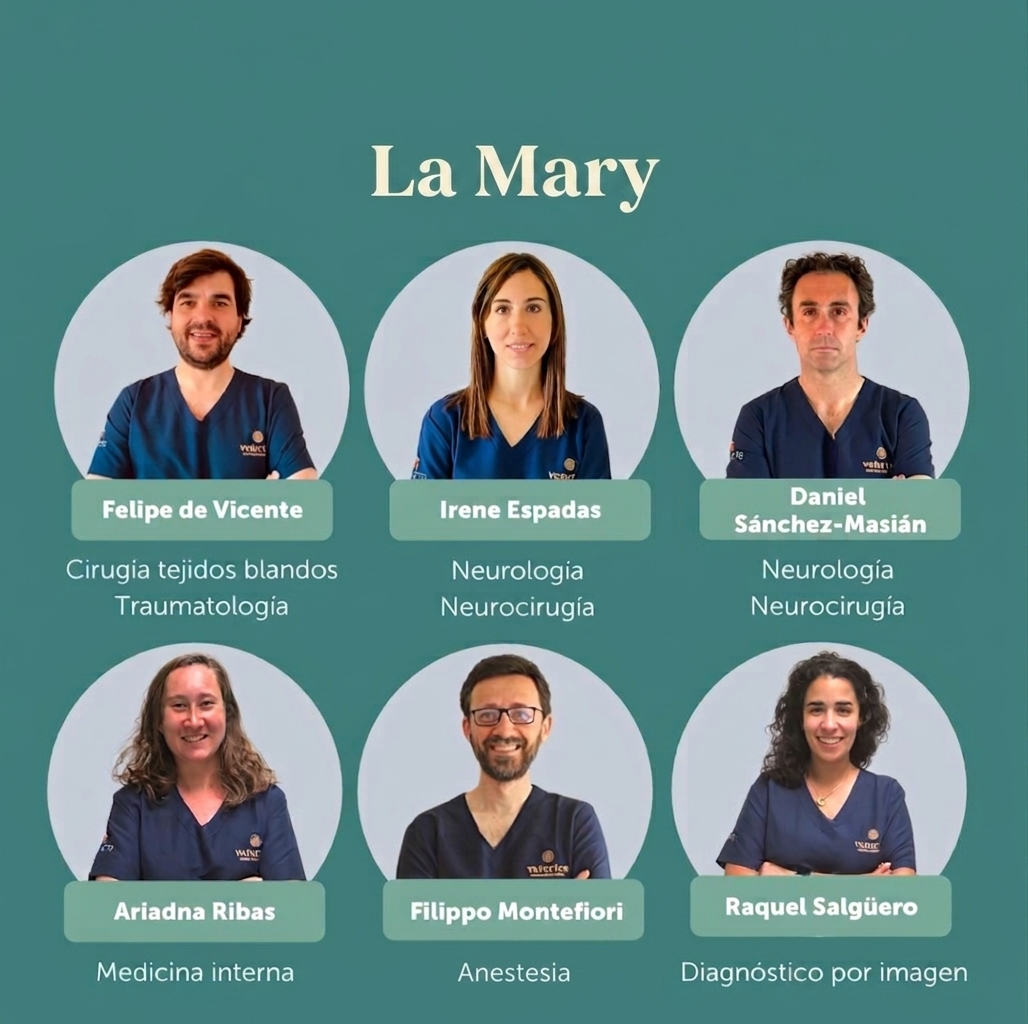
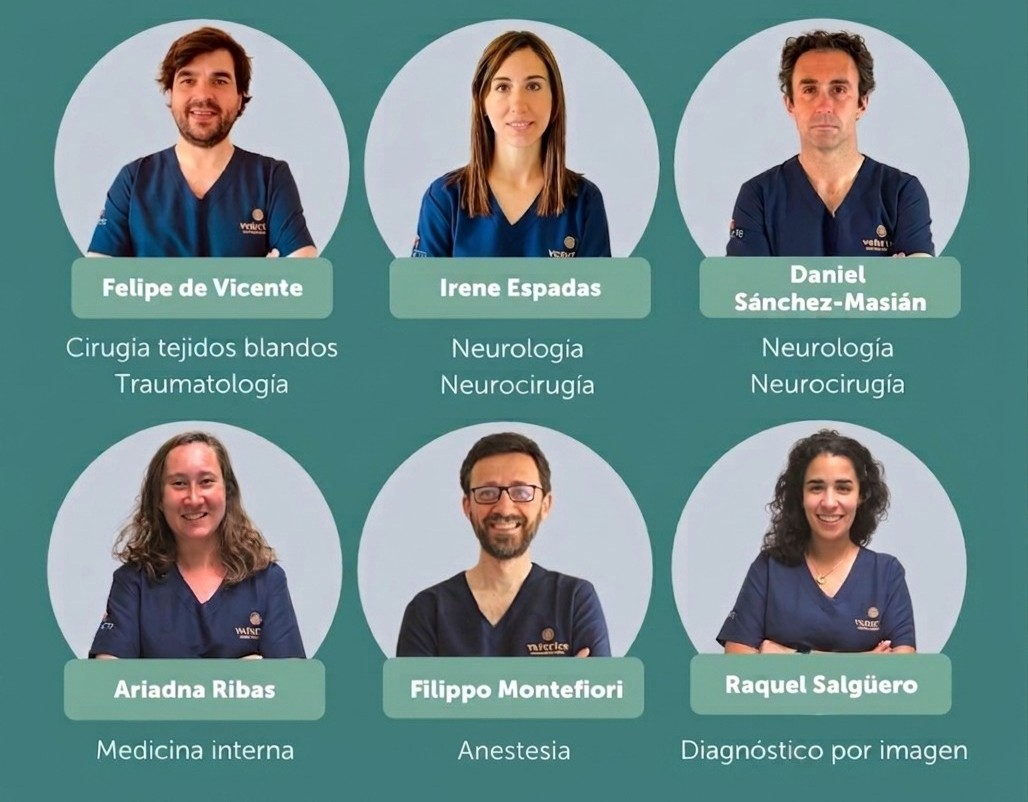
agregue imagen y modifique intitucional

diff --git a/institucional.html b/institucional.html
@@ -11,7 +11,7 @@
 <body>
      <header>
         <div class="logo">
-            <img src="assets/img/icono.png" height="200" width="200">
+            <img src="assets/img/icono1.png" height="200" width="200">
         </div>
         <div class="header-text"> 
             <h1>Veterinaria La Mary</h1>
@@ -33,41 +33,43 @@
         </nav>   
      </header>
 
-    <main> <!-- Contenido principal de la página -->
+    <main> 
         <br><br>
         <section>
-            <h1>Quienes somos</h1><br>
-        <div class="im">
-            <img src="assets/img/1.jpg" alt="" width="600" height="400">
-        </div>
-            <p>En Veterinaria La Mary, somos un centro de salud animal comprometido con brindar una atención médica integral y de alta calidad para las mascotas de nuestra comunidad. Con años de trayectoria, combinamos experiencia científica, tecnología adecuada y, por sobre todo, un profundo amor por los animales, garantizando que cada paciente reciba un trato digno, seguro y personalizado en cada etapa de su vida.</p>
+            <h2>Quienes somos</h2>
+         <p>En Veterinaria La Mary, somos un centro de salud animal comprometido con brindar una atención médica integral y de alta calidad para las mascotas de nuestra comunidad. Con años de trayectoria, combinamos experiencia científica, tecnología adecuada y, por sobre todo, un profundo amor por los animales, garantizando que cada paciente reciba un trato digno, seguro y personalizado en cada etapa de su vida.</p>
+
+        <img src="assets/img/equipo.jpg" alt="" width="600" height="500">
+    
         </section>
         <br><br>
         <section>
-            <h1>Nuestra Mision</h1><br>
-        <div class="im">
-            <img src="assets/img/2.jpg" alt="" width="600" height="400">
-        </div>
+            <h3>Consultorios Equipados</h3>
+            <p>Espacios cómodos y diseñados para reducir el estrés de tus mascotas durante la consulta.</p> 
+
+            <img src="assets/img/sala_de_espera1.jpg" alt="Sala de espera para gatos" width="400" height="300">
+            <img src="assets/img/sala_de_espera2.png" alt="Recepción y sala de espera" width="400" height="300">
+    
+        </section>
+        <br><br>
+        <section>
+            <h4>Nuestra Mision</h4>
             <p>Proteger, restaurar y mantener la salud y el bienestar de los animales de compañía. Nos dedicamos a ofrecer soluciones médicas eficientes mediante un equipo profesional altamente capacitado, brindando tranquilidad a las familias a través de la prevención, el diagnóstico certero y un cuidado compasivo.</p>
         </section>
-        <br><br>
         <section>
-            <h1>Nuestra Vision</h1><br>
-        <div class="im">
-            <img src="assets/img/3.jpg" alt="" width="600" height="400">
-        </div>
+            <h4>Nuestra Vision</h4>
             <p>Consolidarnos como la clínica veterinaria de referencia en la región, siendo reconocidos por nuestra excelencia médica, la constante actualización de nuestros servicios y la calidez humana de nuestro equipo. Aspiramos a construir un entorno donde las mascotas y sus tutores encuentren un espacio de confianza absoluta y contención.</p>
         </section> 
-        <br><br> 
         <section>
-            <h1>Nuestros Valores</h1><br>
-        <div class="im">
-            <img src="assets/img/4.jpg" alt="" width="600" height="400">
-        </div>
+            <h4>Nuestros Valores</h4>
             <p>Compromiso Animal: La salud y la calidad de vida de los pacientes son nuestra máxima prioridad.<br>Ética Profesional: Actuamos con total honestidad, transparencia y responsabilidad médica.<br>Calidez y Empatía: Entendemos el valor del vínculo familiar con las mascotas y ofrecemos un trato cercano y contenedor.<br>Excelencia: Buscamos la mejora continua de nuestras destrezas clínicas y de nuestras instalaciones.</p>
         </section>
+        <br><br>
+        
+
     </main>
 </body>
+
 <footer class="fo">
     <p>&copy; 2026 Veterinaria La Mary. Todos los derechos reservados.</p>
 </footer>

diff --git a/contacto.html b/contacto.html
@@ -11,7 +11,7 @@
 <body>
     <header>
         <div class="logo">
-            <img src="assets/img/icono.png" width="200" height="200">
+            <img src="assets/img/icono1.png" width="200" height="200">
         </div>
             <div class="header-text"> 
                 <h1>Veterinaria La Mary</h1>

diff --git a/index.html b/index.html
@@ -10,7 +10,7 @@
 <body>
      <header>
         <div class="logo">
-            <img src="assets/img/icono.png" height="200" width="200">
+            <img src="assets/img/icono1.png" height="200" width="200">
         </div>
         <div class="header-text"> 
             <h1>Veterinaria La Mary</h1>
